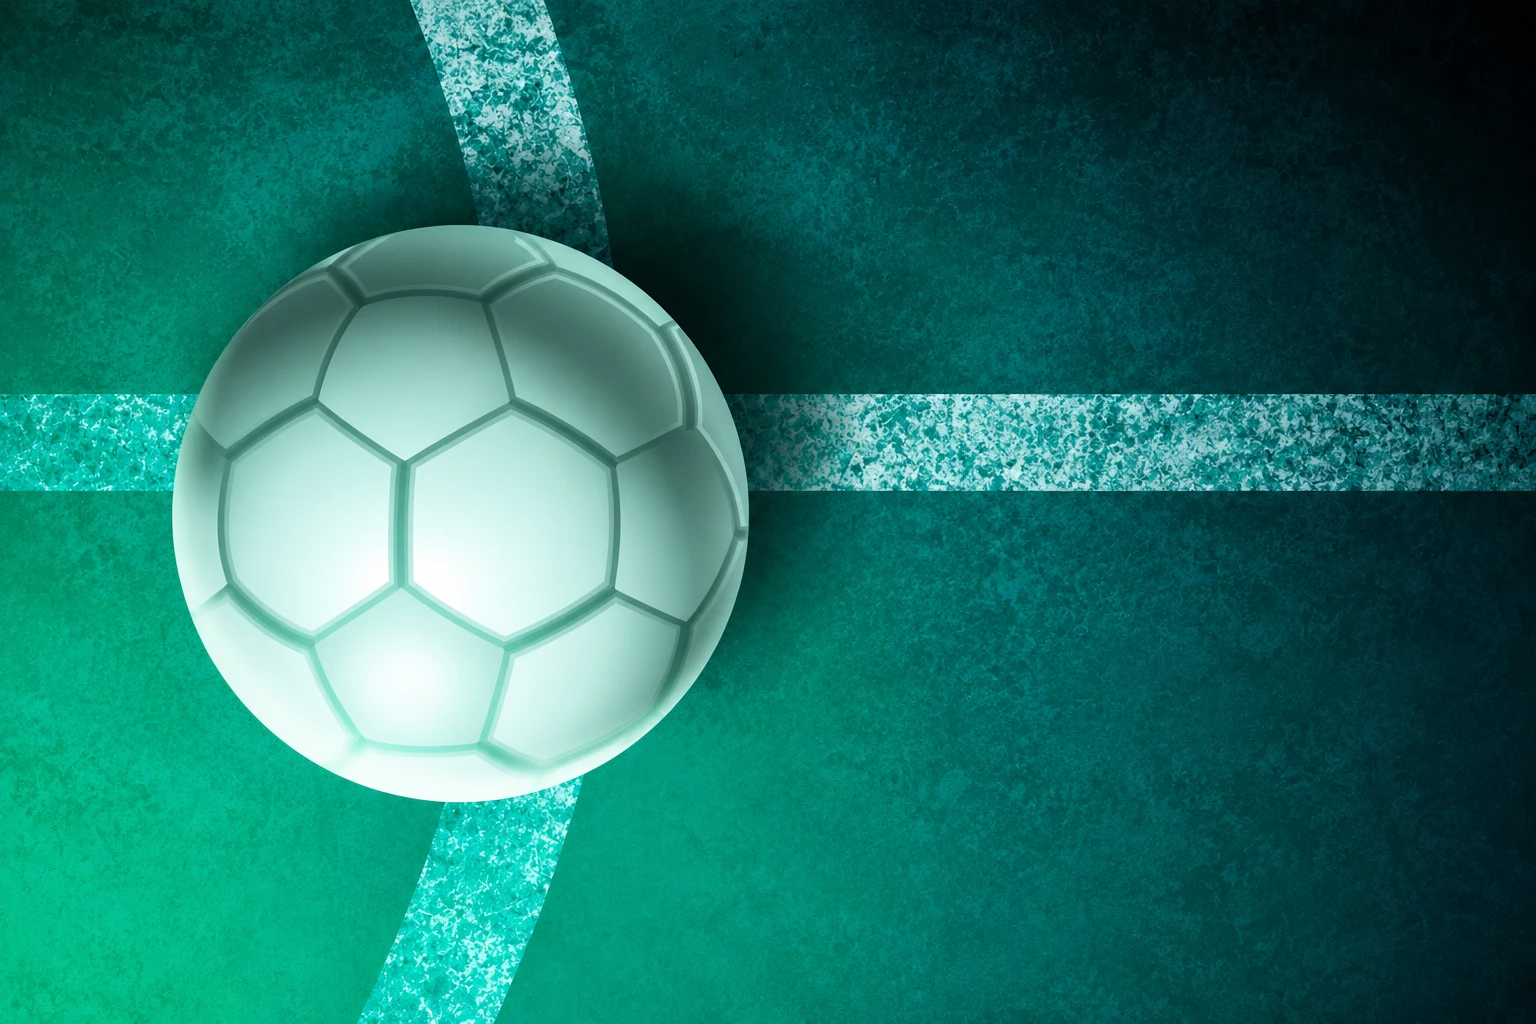
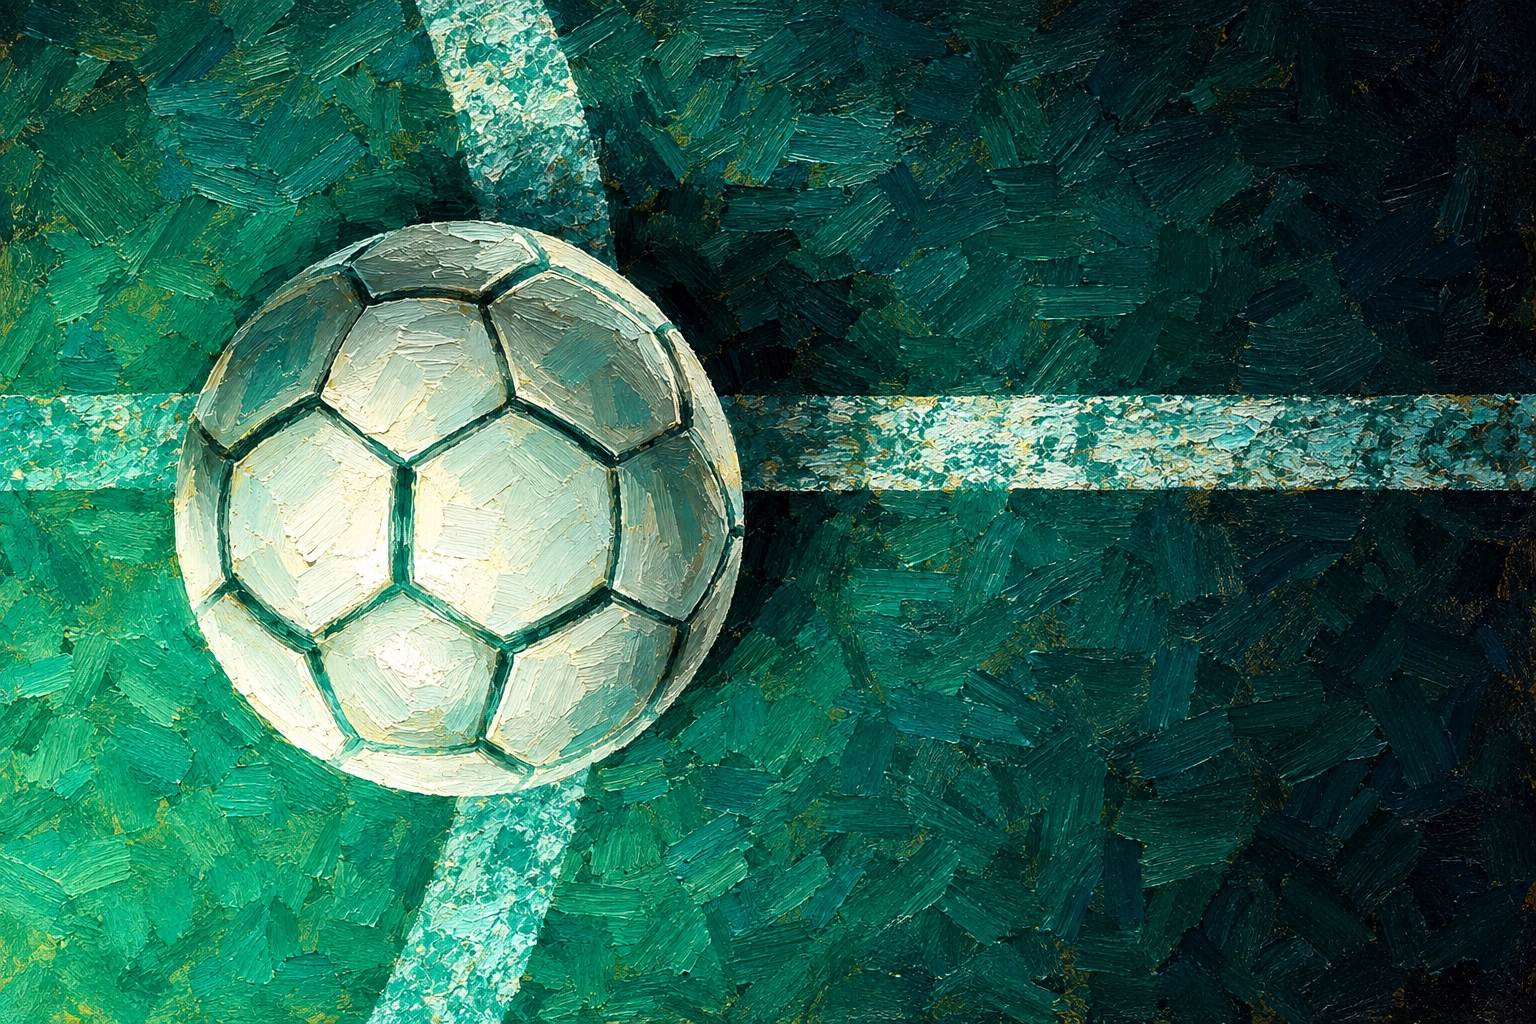
feat(web): add competition background images for WC and UCL pages and landing cards

diff --git a/web/static/shared.css b/web/static/shared.css
@@ -131,9 +131,17 @@ body {
 }
 .lc-card:hover { border-color: #16A085; transform: translateY(-3px); box-shadow: 0 8px 30px rgba(22,160,133,0.12); }
 .lc-card:hover::before { opacity: 0.6; }
-.lc-card.worldcup { border-color: rgba(22,160,133,0.25); }
-.lc-card.worldcup .lcc-badge { color: #16A085; }
-.lc-card.ucl { border-color: rgba(21,61,76,0.3); }
+.lc-card.worldcup {
+  border-color: rgba(211,163,118,0.35);
+  background: linear-gradient(rgba(20,12,48,0.45), rgba(20,12,48,0.55)), url("images/wc.webp") center / cover no-repeat;
+}
+.lc-card.worldcup .lcc-badge { color: #D3A376; }
+.lc-card.worldcup .lcc-stat, .lc-card.worldcup .lcc-loading, .lc-card.worldcup .lcc-coming-soon { color: #D3A376; }
+.lc-card.worldcup .lcc-stat strong, .lc-card.worldcup .lcc-name { color: #FFF2DF; }
+.lc-card.ucl {
+  border-color: rgba(21,61,76,0.45);
+  background: linear-gradient(rgba(20,12,48,0.45), rgba(20,12,48,0.55)), url("images/ucl.webp") center / cover no-repeat;
+}
 .lc-card.lc-disabled { opacity: 0.45; cursor: default; }
 .lc-card.lc-disabled:hover { border-color: rgba(21,61,76,0.3); transform: none; box-shadow: 0 4px 20px rgba(0,0,0,0.12); }
 .lc-card.lc-disabled:hover::before { opacity: 0; }
@@ -585,8 +593,12 @@ body {
 
 /* ── WC Earth Tone Palette ── */
 .competition-worldcup {
-  background: linear-gradient(135deg, #3E2522, #4A3028 50%, #5A3D30);
+  background: linear-gradient(rgba(10,12,20,0.55), rgba(10,12,20,0.65)), url("images/wc.webp") center / cover fixed no-repeat;
   color: #FFF2DF;
+}
+/* ── UCL palette ── */
+.competition-ucl {
+  background: linear-gradient(rgba(10,12,20,0.55), rgba(10,12,20,0.65)), url("images/ucl.webp") center / cover fixed no-repeat;
 }
 .competition-worldcup .tab-bar { border-bottom-color: #8C6E63; }
 .competition-worldcup .tab-btn { color: #8C6E6388; }
